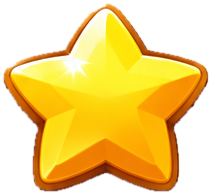
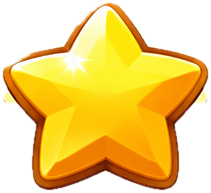
match3 2.50.0: full win stars, tip window on common frame, butterfly+rocket direction fix, delayed butterfly target effects, win close button
Claude-Session: https://claude.ai/code/session_01XZnRVWMBNfnFDLL39n42Z1

diff --git a/docs/DEVELOPMENT_STATUS.md b/docs/DEVELOPMENT_STATUS.md
@@ -83,3 +83,4 @@
 - v2.46.0 2026-11-17: «вертикальный срез», шаг 2 — единый набор графики одной генерацией владельца (references/art_sheet_v1.webp, сетка 5×4): 6 фишек, ракета, бомба, бабочка, шар, ящик в 3 состояниях, горшок в 2, лианы, лёд, газон, 2 плитки поля. Нарезка — match3/tools/sheetcut.py (фон по белому от краёв, срез 3 px каймы), затем tools/gem_atlas.py.
 - v2.47.0 2026-11-17 (жалоба владельца: при многих взрывах проседает плавность, много тряски, финал «висит», камни падают медленно): тряска с потолком 12 px (раньше сила суммировалась до ~80) и гаснет быстрее; место поля для тряски считается один раз (раньше _board_rest() — вся раскладка шапки — пересчитывался каждый кадр всегда); вспышка экрана слабее и только в игре; замедление — только при очень большом взрыве, в игре и не чаще раза в 3 с, короче (0.6× на 0.35 с); бабочка летит 0.9 с вместо 1.5; падение фишек быстрее (~25 %); финал сам ускорен ×1.8 (тап — ×6), бабочек в финале максимум 8, вылет быстрее; при нагрузке эффектов (>40 узлов) след ракеты упрощается, огненные/дымовые клипы режутся раньше. Стресс-тест 18 бустеров разом (-- --perf): пик эффектов 192 → 127 узлов.
 - 2.48.0–2.49.0 (2026-11-17): окно подсказки в общем стиле окон; число монет в окне победы ужимается под ширину; звёзды окна победы перевырезаны без дыр. Разлом препятствий: картинка раскалывается на клинья, куски летят и кувыркаются, облачко пыли; лёд и лианы тоже раскалываются. Шар + бустер: цепная молния превращает фишки цвета в бустеры, пауза-дрожь, затем бустеры взрываются по очереди (--orbdemo).
+- 2.50.0 (2026-11-17): звёзды окна победы вырезаны по тёмному контуру целиком; окно подсказки собрано на общей ровной рамке (как пауза), текст по центру шрифтом игры; бабочка+ракета — ракета летит в ту же сторону, что и рисуется (раньше область и полёт выбирались случайно по отдельности), направление — где больше препятствий; цель бабочки засчитывается и трава растёт, только когда бабочка долетела; крестик «на главную» в окне победы.
